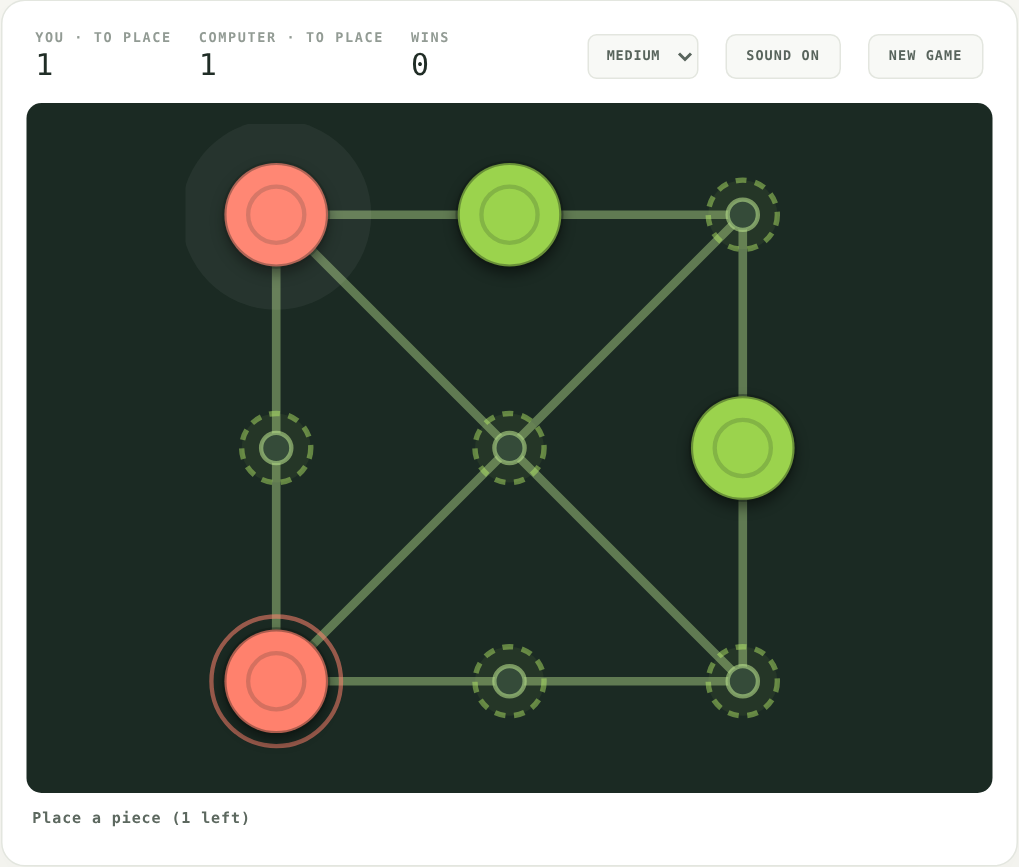
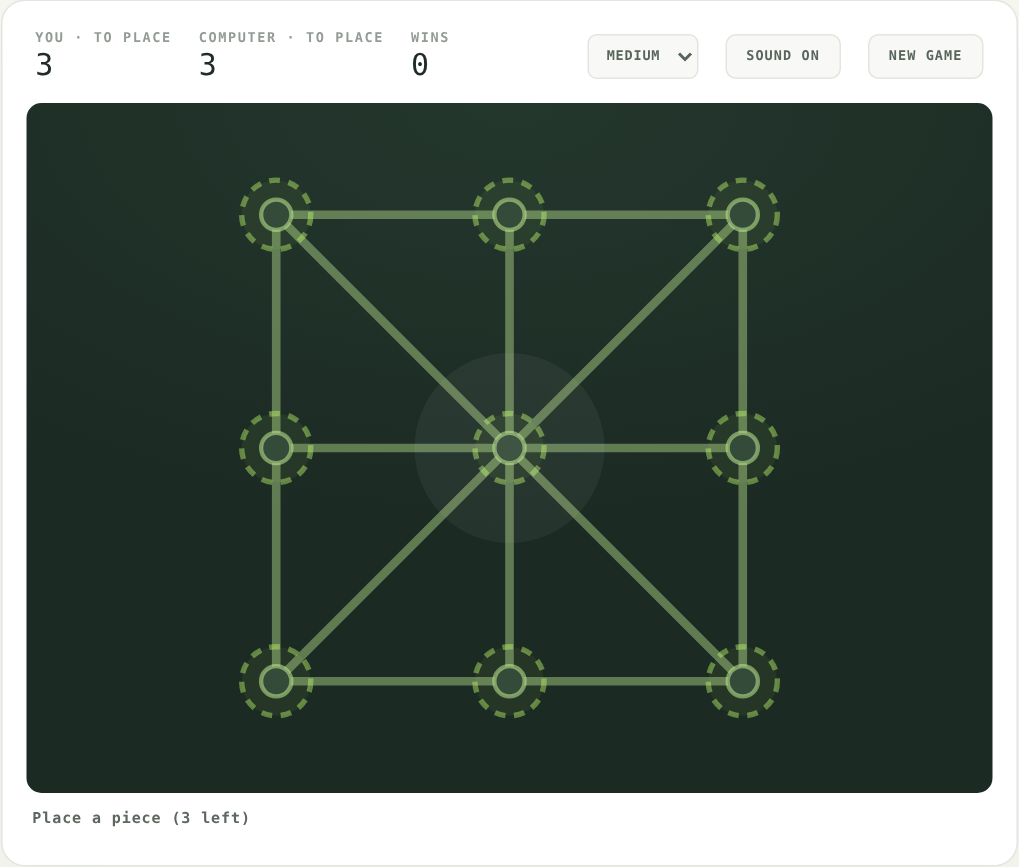
Achi: eight lines, so the middle row and column win
The owner's screenshot showed three in a row across the middle that
didn't win. The board now has the middle row and column as lines too:
pieces slide along them and filling them wins. With eight lines the first
player wins with perfect play (it was a draw on six), so the tests now
say so; hard still never loses when it starts. Screenshots retaken.

Claude-Session: https://claude.ai/code/session_015eFZVJ8SWyouFk3NKz5t1G

diff --git a/tests/arcade/achi.test.ts b/tests/arcade/achi.test.ts
@@ -1,4 +1,4 @@
-// Achi (lib/arcade/achi.ts) on the owner's drawn board: the six lines and who connects to whom, wins only on those lines,
+// Achi (lib/arcade/achi.ts) on the eight-line board: the lines and who connects to whom, wins on any line,
 // placing then moving, the no-move loss, the draws, and the computer at every level.
 // Run: npx -y tsx tests/arcade/achi.test.ts
 import assert from "node:assert/strict";
@@ -15,42 +15,47 @@ const at = (rows: string, turn: Player = 0, over: Partial<AchiState> = {}): Achi
 const place = (to: number): Move => ({ kind: "place", to });
 const slide = (from: number, to: number): Move => ({ kind: "move", from, to });
 
-// --- The board as drawn ---
-ok("exactly six lines: four edges and two diagonals, none through the middle across or down", () => {
+// --- The board ---
+ok("eight lines: four edges, the middle row and column, and two diagonals", () => {
   const norm = LINES.map((l) => [...l].sort((a, b) => a - b).join(",")).sort();
-  assert.deepEqual(norm, ["0,1,2", "0,3,6", "0,4,8", "2,4,6", "2,5,8", "6,7,8"]);
-  assert.ok(!norm.includes("3,4,5") && !norm.includes("1,4,7"));
+  assert.deepEqual(norm, ["0,1,2", "0,3,6", "0,4,8", "1,4,7", "2,4,6", "2,5,8", "3,4,5", "6,7,8"]);
 });
-ok("adjacency: centre 4 neighbours (corners only), edge-middles 2, corners 3", () => {
-  assert.deepEqual(ADJACENT[4], [0, 2, 6, 8]);
-  for (const mid of [1, 3, 5, 7]) assert.equal(ADJACENT[mid].length, 2, `edge-middle ${mid}`);
+ok("adjacency: centre joins all 8 points, edge-middles 3, corners 3", () => {
+  assert.deepEqual(ADJACENT[4], [0, 1, 2, 3, 5, 6, 7, 8]);
+  for (const mid of [1, 3, 5, 7]) assert.equal(ADJACENT[mid].length, 3, `edge-middle ${mid}`);
   for (const c of [0, 2, 6, 8]) assert.equal(ADJACENT[c].length, 3, `corner ${c}`);
   assert.deepEqual(ADJACENT[0], [1, 3, 4]);
-  assert.deepEqual(ADJACENT[1], [0, 2]);
-  assert.deepEqual(ADJACENT[3], [0, 6]);
+  assert.deepEqual(ADJACENT[1], [0, 2, 4]);
+  assert.deepEqual(ADJACENT[3], [0, 4, 6]);
   assert.deepEqual(ADJACENT[8], [4, 5, 7]);
-  assert.ok(!ADJACENT[1].includes(4) && !ADJACENT[3].includes(4), "no line from an edge-middle to the centre");
   // symmetric
   ADJACENT.forEach((ns, i) => ns.forEach((j) => assert.ok(ADJACENT[j].includes(i))));
 });
 
 // --- Winning ---
-ok("each of the six lines wins", () => {
+ok("each of the eight lines wins", () => {
   for (const line of LINES) {
     const b: Cell[] = Array(9).fill(null);
     line.forEach((i) => (b[i] = 1));
     assert.deepEqual(lineOf(b, 1), [...line]);
   }
 });
-ok("the middle row and middle column do NOT win", () => {
-  assert.equal(lineOf(B("... xxx ..."), 0), null);
-  assert.equal(lineOf(B(".x. .x. .x."), 0), null);
-  assert.equal(lineOf(B("x.. .x. ..o"), 0), null);
+ok("the middle row and middle column win (the owner's screenshot: three across the middle)", () => {
+  assert.deepEqual(lineOf(B("... xxx ..."), 0), [3, 4, 5]);
+  assert.deepEqual(lineOf(B(".x. .x. .x."), 0), [1, 4, 7]);
+  assert.equal(lineOf(B("x.. .x. ..o"), 0), null, "not a line");
+  assert.equal(lineOf(B("xx. ..x ..."), 0), null, "not a line");
 });
-ok("placing a third piece in the centre row doesn't end the game", () => {
+ok("placing a third piece in the centre row wins", () => {
   const s = applyMove(at("o.o xx. o..", 0), place(5));
-  assert.equal(s.winner, null);
-  assert.equal(s.winLine, null);
+  assert.equal(s.winner, 0);
+  assert.deepEqual(s.winLine, [3, 4, 5]);
+});
+ok("sliding into the middle row wins", () => {
+  // The screenshot: o at 0, 2, 7; x at 3, 5 and one more slides into the centre.
+  const s = applyMove(at("o.o x.x xo.", 0), slide(6, 4));
+  assert.equal(s.winner, 0);
+  assert.deepEqual(s.winLine, [3, 4, 5]);
 });
 ok("a line made while placing wins at once", () => {
   const s = applyMove(at("xx. oo. ...", 0), place(2));
@@ -85,8 +90,8 @@ ok("after six placements both players move, only along lines to an empty neighbo
   assert.equal(s.turn, 0);
   assert.ok(legalMoves(s).every((m) => m.kind === "move"));
   assert.ok(!isLegal(s, place(0)), "no more placing");
-  // x at 4 can go to 0 and 2 (6 and 8 are taken); x at 3 to 0; x at 8 to 7 (4 and 5 taken).
-  assert.deepEqual(targetsFrom(s, 4), [0, 2]);
+  // x at 4 can go to any empty point (0, 2, 7); x at 3 to 0 (4 and 6 taken); x at 8 to 7 (4 and 5 taken).
+  assert.deepEqual(targetsFrom(s, 4), [0, 2, 7]);
   assert.deepEqual(targetsFrom(s, 3), [0]);
   assert.deepEqual(targetsFrom(s, 8), [7]);
   assert.ok(!isLegal(s, slide(3, 2)), "not two steps");
@@ -114,7 +119,7 @@ ok("cannotMove: a player whose three pieces are all hemmed in has no move", () =
   assert.equal(cannotMove(B("xxo x.. o.o"), 0), false, "4 is free");
   assert.equal(cannotMove(B("xx. ... ..."), 0), false, "still placing");
 });
-ok("on the drawn board, a player can only be hemmed in once a line is already filled", () => {
+ok("a player can only be hemmed in once a line is already filled", () => {
   // Every full position (3 v 3) where a player is stuck already has a line on it (theirs or the other side's), so a line win comes first.
   let stuck = 0;
   const walk = (i: number, b: Cell[], x: number, o: number) => {
@@ -149,8 +154,9 @@ ok(`${MOVE_CAP} turns with no winner is a draw`, () => {
 });
 
 // --- The computer ---
-ok("the empty board is a draw with perfect play", () => {
-  assert.equal(solvedValue(initialState(0)).v, "draw");
+ok("on the eight-line board the first player wins with perfect play", () => {
+  assert.equal(solvedValue(initialState(0)).v, "win");
+  assert.equal(solvedValue(initialState(1)).v, "win");
 });
 ok("every level takes a win in one", () => {
   for (const level of ["easy", "medium", "hard"] as Level[]) {
@@ -188,18 +194,22 @@ ok("perfect computer never loses to random play (400 games, both starting)", () 
   assert.ok(tally.won > 300, `hard should win most games against random (won ${tally.won})`);
   console.log(`      hard vs random: won ${tally.won}, drew ${tally.drawn}, lost 0`);
 });
-ok("hard never loses to medium or easy either", () => {
+ok("hard never loses when it starts, and beats easy and medium most of the time when they start", () => {
   const rng = seededRng(11);
   for (const lvl of ["easy", "medium"] as Level[]) {
+    let lost = 0;
     for (let g = 0; g < 40; g++) {
-      const end = playGame((g % 2) as Player, (s) => chooseMove(s, s.turn === 1 ? "hard" : lvl, rng));
-      assert.notEqual(end.winner, 0, `${lvl} beat hard`);
+      const first = (g % 2) as Player;
+      const end = playGame(first, (s) => chooseMove(s, s.turn === 1 ? "hard" : lvl, rng));
+      if (first === 1) assert.equal(end.winner, 1, `${lvl} beat hard when hard started`);
+      if (end.winner === 0) lost++;
     }
+    assert.ok(lost < 10, `${lvl} beat hard ${lost} times in 20 starts`);
   }
 });
-ok("hard vs hard is always a draw", () => {
+ok("hard vs hard: whoever starts wins", () => {
   const rng = seededRng(3);
-  for (let g = 0; g < 20; g++) assert.equal(playGame((g % 2) as Player, (s) => chooseMove(s, "hard", rng)).winner, "draw");
+  for (let g = 0; g < 20; g++) assert.equal(playGame((g % 2) as Player, (s) => chooseMove(s, "hard", rng)).winner, g % 2);
 });
 ok("full games finish at every pairing, legally", () => {
   const rng = seededRng(5);

diff --git a/components/games/AchiGame.tsx b/components/games/AchiGame.tsx
@@ -176,7 +176,7 @@ export default function AchiGame() {
         </div>
 
         <div className="arc-board-wrap achi-wrap">
-          <svg className="achi-board" viewBox="0 0 300 300" role="group" aria-label="Achi board: nine points joined by the four outside edges and the two diagonals. Your pieces are green, the computer's are coral.">
+          <svg className="achi-board" viewBox="0 0 300 300" role="group" aria-label="Achi board: nine points joined by eight lines: the four outside edges, the middle row and column, and the two diagonals. Your pieces are green, the computer's are coral.">
             <g className="achi-lines" aria-hidden="true">
               {LINES.map((l) => <line key={l.join("")} x1={XY[l[0]].x} y1={XY[l[0]].y} x2={XY[l[2]].x} y2={XY[l[2]].y} />)}
             </g>
@@ -202,10 +202,10 @@ export default function AchiGame() {
           </svg>
           {phase !== "playing" && (
             <div className="arc-overlay">
-              <p className="arc-overlay-kicker">{phase === "over" ? "GAME OVER" : "THREE PIECES EACH · SIX LINES"}</p>
+              <p className="arc-overlay-kicker">{phase === "over" ? "GAME OVER" : "THREE PIECES EACH · EIGHT LINES"}</p>
               <h2>{phase === "ready" ? "Three in a line." : game.winner === 0 ? "You win." : game.winner === 1 ? "Computer wins." : "A draw."}</h2>
               <p>{phase === "ready"
-                ? "Place your three, then slide them along the lines. Fill an edge or a diagonal to win."
+                ? "Place your three, then slide them along the lines. Fill any line to win."
                 : `${endText(game)} ${nextFirst === 0 ? "You start the next game." : "The computer starts the next game."}`}</p>
               <button type="button" className="arc-btn" onClick={start} aria-label={phase === "over" ? "Play again" : "Start game"}>{phase === "over" ? "PLAY AGAIN" : "START GAME"}</button>
             </div>

diff --git a/lib/arcade/achi.entry.ts b/lib/arcade/achi.entry.ts
@@ -8,12 +8,12 @@ export const ENTRY: ArcadeGame = {
   kicker: "Board",
   headline: ["Three", "in a line."],
   blurb: "Place three, then slide them: first to fill a line wins.",
-  description: "Achi is the traditional West African name for a family of three-in-a-row games, played in Ghana and across the region on a board drawn in the sand or on paper. You each have three pieces and nine points joined by six lines. Put your pieces down, then slide them along the lines, and be the first to fill a whole line.",
+  description: "Achi is the traditional West African name for a family of three-in-a-row games, played in Ghana and across the region on a board drawn in the sand or on paper. You each have three pieces and nine points joined by eight lines. Put your pieces down, then slide them along the lines, and be the first to fill a whole line.",
   howTo: [
-    "The board has nine points and six lines: the four outside edges and the two diagonals. There's no line straight across or down through the middle.",
+    "The board has nine points and eight lines: the four outside edges, the middle row and column through the centre, and the two diagonals.",
     "Each player has three pieces. Take turns placing one on any empty point.",
     "Once all six are down, take turns sliding one of your pieces along a line to the next point, if it's empty.",
-    "Get your three pieces on one line, an edge or a diagonal, and you win, while placing or moving.",
+    "Get your three pieces on any one line and you win, while placing or moving.",
     "If it's your turn and you can't move, you lose. The same position three times, or 60 turns with no winner, is a draw. The loser starts the next game.",
   ],
   players: "You vs the computer",

diff --git a/lib/arcade/achi.ts b/lib/arcade/achi.ts
@@ -1,12 +1,13 @@
-// Achi: a three-in-a-line game on the owner's drawn board. Pure logic, no React or DOM.
+// Achi: a three-in-a-line game. Pure logic, no React or DOM.
 //
 // Points are numbered row by row:   0 — 1 — 2
-//                                   |  \   / |
-//                                   3    4   5
-//                                   |  /   \ |
+//                                   | \ | / |
+//                                   3 — 4 — 5
+//                                   | / | \ |
 //                                   6 — 7 — 8
-// The only drawn lines are the four outer edges and the two diagonals. There is no line through the centre
-// across or down (3–4–5 and 1–4–7 are NOT lines), so pieces only slide along those six lines and only those six win.
+// Eight lines (owner, 21 Nov 2026, replacing the earlier six-line board): the four outer edges, the middle row and
+// middle column through the centre, and the two diagonals. Pieces slide along any line to the next point, and three
+// of yours on any of the eight lines wins.
 
 export type Player = 0 | 1; // 0 = you, 1 = the computer
 export type Cell = Player | null;
@@ -37,9 +38,11 @@ export const LINES: readonly (readonly number[])[] = [
   [2, 5, 8], // right
   [0, 4, 8], // diagonal
   [2, 4, 6], // diagonal
+  [3, 4, 5], // middle row
+  [1, 4, 7], // middle column
 ];
 
-// Neighbours along drawn lines: consecutive points on each line.
+// Neighbours along the lines: consecutive points on each line.
 export const ADJACENT: readonly number[][] = (() => {
   const adj: number[][] = Array.from({ length: 9 }, () => []);
   for (const line of LINES) {
